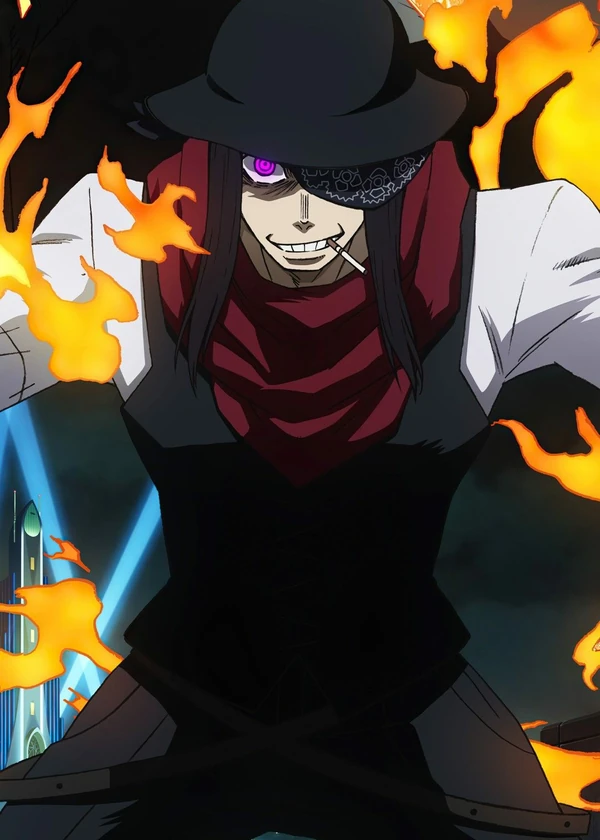
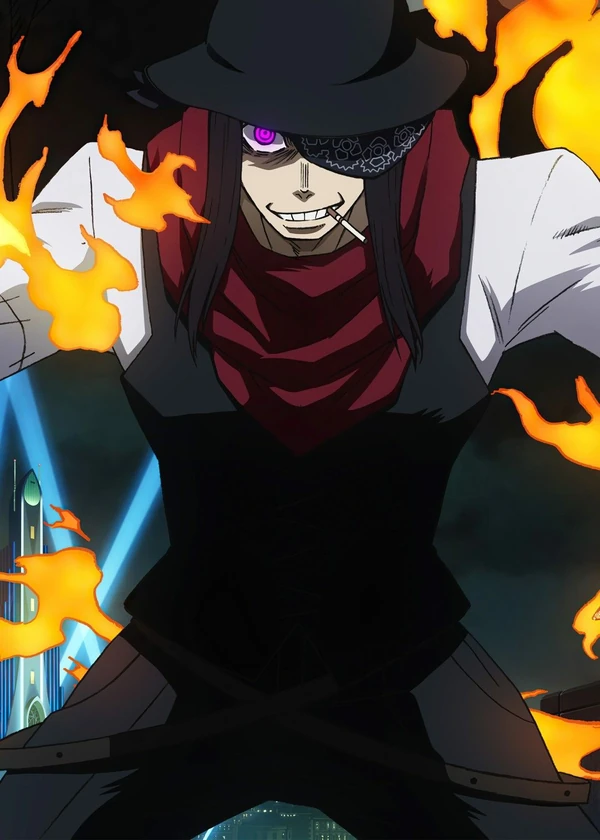
Images v143: revue de tout l'album (recadrage bandeau) - Grimmjow, Joker recadres ; APOS pour 9 cartes (Nanami, Goten, Hou Ken, Biscuit, Beam, Temari, C-16, Shoji, Ichigo)
Claude-Session: https://claude.ai/code/session_01JHx5pPzbBPMDkeK3fPmfwM

diff --git a/index.html b/index.html
@@ -1965,8 +1965,8 @@ let CLIPDIAG='';
 const prot=c=>!!c&&(!!c.scn||c.r==='UR'||c.r==='LR');
 const clueC=c=>!!c&&!c.scn&&RORD[c.r]>=3;
 const RCOL={N:'var(--r-n)',R:'var(--r-r)',SR:'var(--r-sr)',SSR:'var(--r-ssr)',UR:'#A63BFF',LR:'#FFFFFF'};
-const AV='?v=74';const AVO={'mha-all-united-states-of-smash':'?v=67','mha-all-united-states-of-smash~s':'?v=69b','db-son-cell-games':'?v=65','db-son-cell-games~s':'?v=65'};const avOf=k=>AVO[k]||AV;/* version des images (cache) */
-const APOS={'bc-asta-examen-d-entree':'center 0%'};
+const AV='?v=75';const AVO={'mha-all-united-states-of-smash':'?v=67','mha-all-united-states-of-smash~s':'?v=69b','db-son-cell-games':'?v=65','db-son-cell-games~s':'?v=65'};const avOf=k=>AVO[k]||AV;/* version des images (cache) */
+const APOS={'bc-asta-examen-d-entree':'center 0%','jjk-kento-arc-shibuya':'center 0%','db-goten-arc-buu':'center 0%','kd-hou-ken-bataille-de-bayou':'center 0%','hxh-biscuit-greed-island':'center 0%','csm-beam-arc-assassins':'center 0%','na-temari-examen-chunin':'center 0%','db-c-16-arc-cell':'center 0%','mha-shoji-lycee-yuei':'center 0%','bl-ichigo-remplacant':'center 0%'};
 /* si tu possèdes la scène iconique, la carte de base (et son éveil) prend l'image de la scène */
 const artOf=(c,big,nosc)=>{const b=c.base||c.id,e=c.id.replace(/~e$/,''),sc=(!nosc&&!c.scn&&typeof S!=='undefined'&&S.owned&&S.owned[e+'~s']>0&&ART.has(e+'~s'))?e+'~s':null,k=sc||(ART.has(c.id)?c.id:ART.has(e)?e:ART.has(b)?b:null);return k?(big?'images/':'images/s/')+k+'.webp'+avOf(k):null};
 /* préchargement : vignettes puis grandes images en arrière-plan (cache du navigateur) ; images du booster décodées avant leur apparition */
